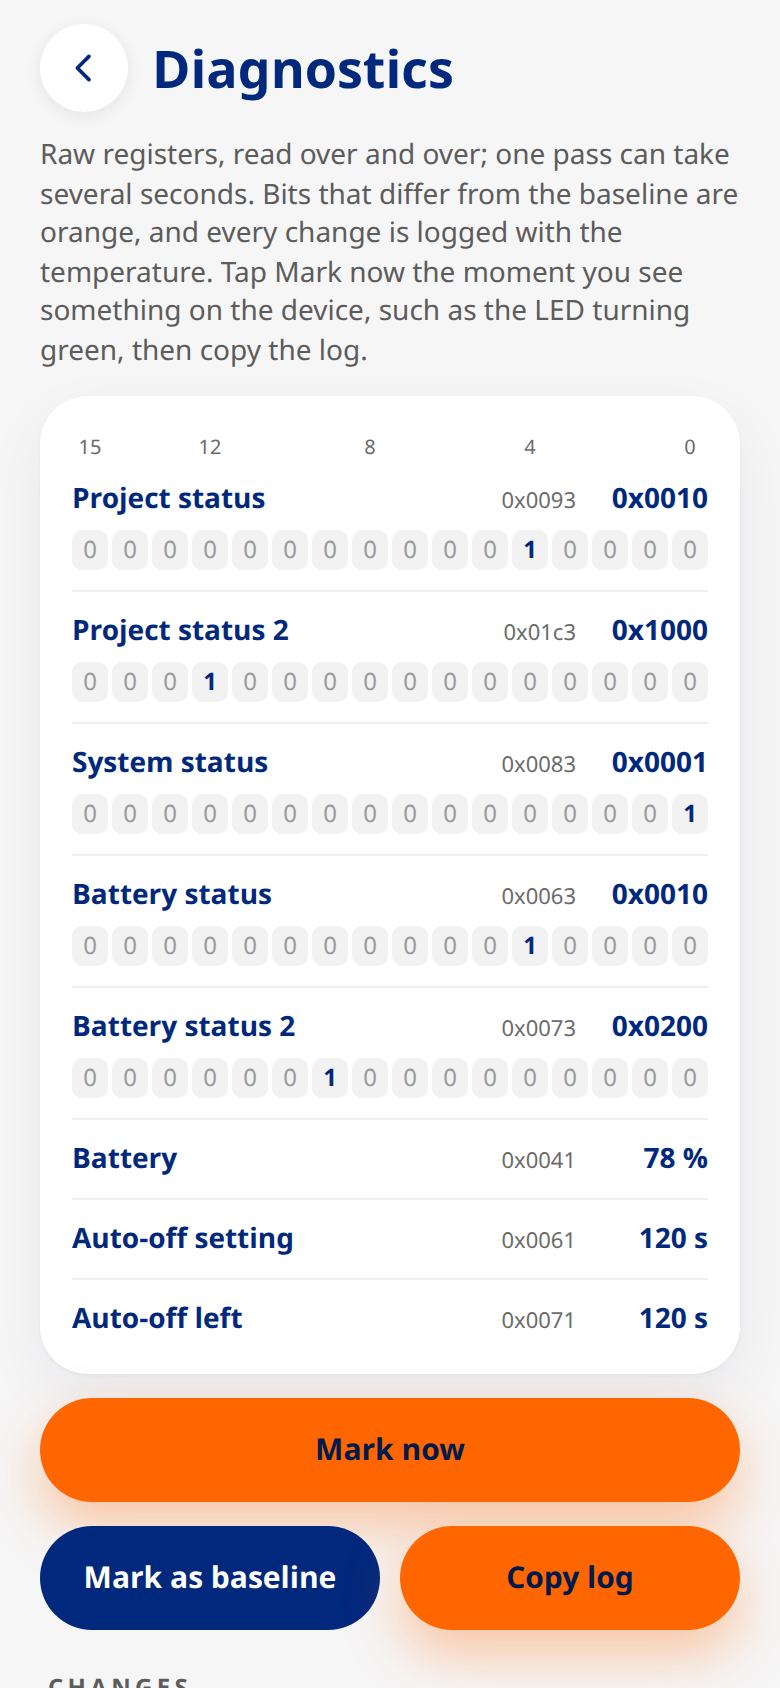
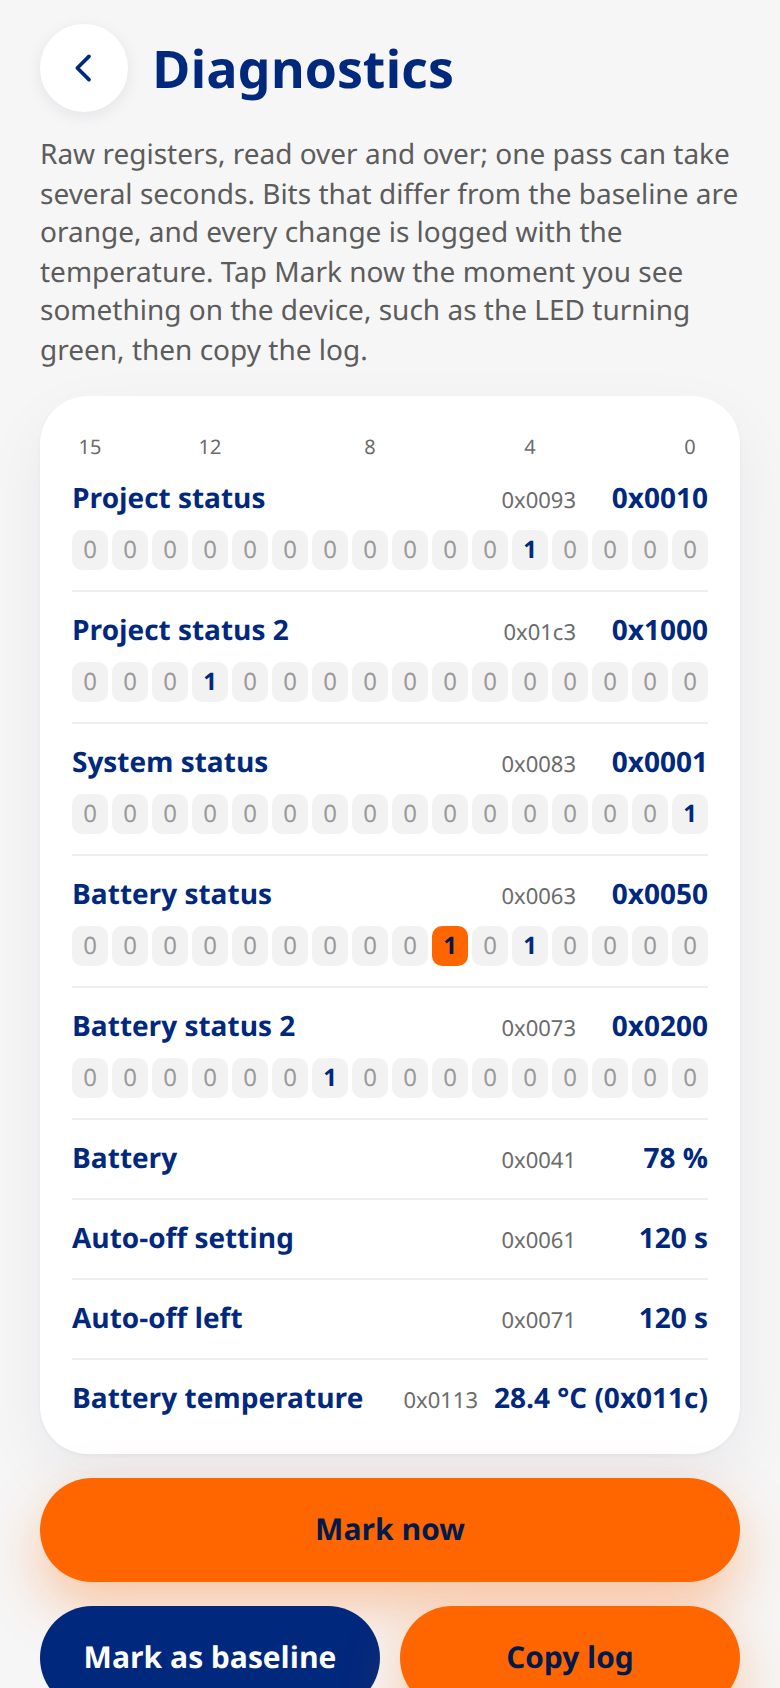
Demo: CRAFTY+ battery temperature, in the README diagnostics screenshot too

Changed region(s): [[0.0308, 0.8009, 0.9538, 1.0], [0.5538, 0.5237, 0.6154, 0.5853], [0.8615, 0.5237, 0.8923, 0.5545]]

diff --git a/src/lib/devices/demo.ts b/src/lib/devices/demo.ts
@@ -45,6 +45,8 @@ export function createDemoDriver(kind: DeviceKind): DeviceDriver {
     pump: false,
     minutes: isVolcano ? 811 * 60 + 42 : 142 * 60 + 18,
     battery: 78,
+    // CRAFTY: the battery warms slowly while heating and cools back towards the room.
+    batteryTemp: 27.9,
   };
   // Offsets from the base temperature; the Superbooster sits on top of the Booster.
   const offsets = { boost: 10, superboost: 25 };
@@ -57,7 +59,9 @@ export function createDemoDriver(kind: DeviceKind): DeviceDriver {
     const k = s.heater ? (s.current < g ? 0.06 : 0.2) : 0.01;
     s.current += (g - s.current) * k + (s.heater && s.current < g ? 0.08 : 0);
     if (s.heater) s.minutes += 0.5 / 60;
+    s.batteryTemp += ((s.heater ? 38 : 24) - s.batteryTemp) * 0.002;
     emit({
+      ...(kind === 'crafty' ? { batteryTemp: Math.round(s.batteryTemp * 10) / 10 } : {}),
       ...(live ? { currentTemp: Math.round(s.current * 10) / 10 } : {}),
       operatingMinutes: s.minutes,
       tempReached: s.heater && Math.abs(goal() - s.current) < 1,
@@ -95,6 +99,8 @@ export function createDemoDriver(kind: DeviceKind): DeviceDriver {
         battery: isVolcano ? undefined : s.battery,
         batteryVoltage: kind === 'crafty' ? 3639 : undefined,
         batteryCurrent: kind === 'crafty' ? -350 : undefined,
+        batteryTemp: kind === 'crafty' ? s.batteryTemp : undefined,
+        batteryHot: kind === 'crafty' ? false : undefined,
         charging: false,
         operatingMinutes: s.minutes,
         chargingMinutes: kind === 'venty' || kind === 'veazy' ? 16142 : undefined,
@@ -150,6 +156,7 @@ export function createDemoDriver(kind: DeviceKind): DeviceDriver {
     { label: 'Battery', source: '0x0041', value: s.battery, unit: '%' },
     { label: 'Auto-off setting', source: '0x0061', value: 120, unit: 's' },
     { label: 'Auto-off left', source: '0x0071', value: 120, unit: 's', quiet: true },
+    { label: 'Battery temperature', source: '0x0113', value: Math.round(s.batteryTemp * 10), unit: '°C', quiet: true, scale: 0.1 },
   ];
   // Like the real CRAFTY+, the demo switches levels only with the (imaginary) device button.
   return kind === 'crafty' ? Object.assign(driver, { modeSwitchable: false as const, diagnostics }) : driver;
